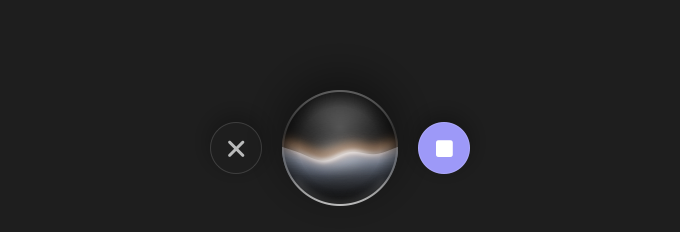
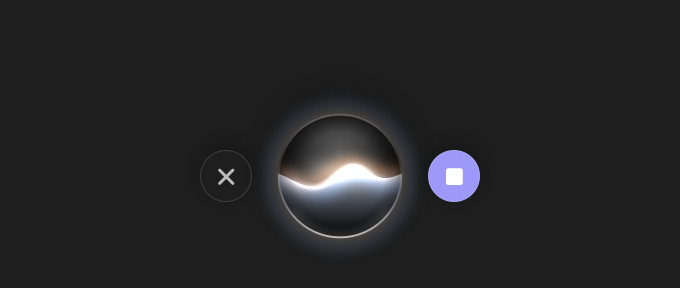
Fluid orb motion: per-frame smoothing, accumulated phase, layered ribbons

Changed region(s): [[0.3088, 0.3319, 0.7103, 0.9052]]

diff --git a/Sources/Murmur/Orb.swift b/Sources/Murmur/Orb.swift
@@ -1,25 +1,66 @@
 import SwiftUI
 
-/// A dark glass sphere with a band of light across its middle that ripples with your voice.
-/// Drawn entirely in SwiftUI (no Metal shader files), so it builds with Command Line Tools.
-/// The wavy-surface idea follows metasidd/Orb (MIT): https://github.com/metasidd/Orb
+/// The moving parts of the orb, advanced once per display frame. Keeping the state here, and
+/// integrating it over real elapsed time, is what makes the motion fluid: the microphone only
+/// reports about 25 levels a second, and wave speed changes must never make the phase jump.
+final class OrbMotion {
+    /// Smoothed 0...1 voice energy.
+    private(set) var energy: CGFloat = 0
+    /// One running phase per ribbon of light.
+    private(set) var phases: [Double] = [0, 2.1, 4.4]
+    private var last: Date?
+
+    private static let drift: [Double] = [1.9, -2.6, 3.4]
+
+    func step(toward target: CGFloat, at date: Date, thinking: Bool) {
+        let dt = min(0.05, max(0, last.map { date.timeIntervalSince($0) } ?? 0))
+        last = date
+
+        // While transcribing there is no voice: breathe slowly instead.
+        let goal = thinking ? 0.20 + 0.08 * CGFloat(sin(date.timeIntervalSinceReferenceDate * 2.2)) : target
+        // Rise with the syllable, fall away gently after it.
+        let rate: Double = goal > energy ? 16 : 4.5
+        energy += (goal - energy) * CGFloat(1 - exp(-rate * dt))
+
+        // Louder speech moves the light faster. Because the phase is accumulated, a change of
+        // speed bends the motion smoothly instead of teleporting the wave.
+        let pace = thinking ? 0.9 : 0.55 + 2.4 * Double(energy)
+        for i in phases.indices { phases[i] += OrbMotion.drift[i] * pace * dt }
+    }
+}
+
+/// A dark glass sphere with ribbons of light across its middle. In silence they lie together
+/// as one calm line; as you speak they swell from the centre and separate, the way layered
+/// voice waveforms do. Drawn in SwiftUI only, so it builds with Command Line Tools.
+/// The centre-weighted ribbon maths follows the classic open-source SiriWave approach
+/// (kopiro/siriwave, MIT); the wavy-surface idea follows metasidd/Orb (MIT).
 struct OrbView: View {
-    /// 0...1 microphone level.
-    var level: CGFloat
-    /// Seconds, drives the ripple. Pass a fixed value for a still image.
-    var time: Double
-    /// Slow shimmer instead of voice ripples, for the transcribing state.
-    var thinking = false
+    /// Smoothed 0...1 voice energy.
+    var energy: CGFloat
+    /// Three phases, one per ribbon.
+    var phases: [Double]
 
     var body: some View {
         Canvas { context, size in
             let side = min(size.width, size.height)
-            let rect = CGRect(x: (size.width - side) / 2, y: (size.height - side) / 2, width: side, height: side)
+            let centre = CGPoint(x: size.width / 2, y: size.height / 2)
+            // The sphere leaves room to swell and to glow inside its frame.
+            let r = side * 0.30 * (1 + 0.14 * energy)
+            let rect = CGRect(x: centre.x - r, y: centre.y - r, width: r * 2, height: r * 2)
             let sphere = Path(ellipseIn: rect)
-            let centre = CGPoint(x: rect.midX, y: rect.midY)
-            let r = side / 2
 
-            // 1. The glass body: darker toward the rim, a little lift where light enters at the top.
+            // Light spilling out of the glass when the voice is strong.
+            if energy > 0.02 {
+                let reach = r * (1.25 + 0.35 * energy)
+                context.fill(Path(ellipseIn: CGRect(x: centre.x - reach, y: centre.y - reach, width: reach * 2, height: reach * 2)),
+                             with: .radialGradient(
+                                Gradient(stops: [.init(color: Color(red: 1.0, green: 0.78, blue: 0.55).opacity(0.50 * energy), location: 0.62),
+                                                 .init(color: Color(red: 0.6, green: 0.75, blue: 1.0).opacity(0.18 * energy), location: 0.82),
+                                                 .init(color: .clear, location: 1)]),
+                                center: centre, startRadius: 0, endRadius: reach))
+            }
+
+            // 1. The glass body.
             context.fill(sphere, with: .radialGradient(
                 Gradient(stops: [.init(color: Color(white: 0.30), location: 0),
                                  .init(color: Color(white: 0.13), location: 0.55),
@@ -29,27 +70,35 @@ struct OrbView: View {
             context.drawLayer { inner in
                 inner.clip(to: sphere)
 
-                // The surface line. It sags slightly at the centre like liquid seen through a lens.
-                let energy = thinking ? 0.25 : level
-                let amplitude = r * (0.03 + 0.42 * energy)
-                // Louder speech lifts the liquid as well as rippling it.
-                let baseY = centre.y - r * 0.02 - r * 0.10 * energy
-                func surfaceY(_ x: CGFloat) -> CGFloat {
-                    let u = (x - rect.minX) / side                      // 0...1 across the sphere
-                    let sag = sin(u * .pi) * r * 0.20
-                    let speed = thinking ? 1.2 : 3.0 + 5.0 * Double(energy)
-                    let wave = sin(Double(u) * 7.0 + time * speed) * 0.6 + sin(Double(u) * 13.0 - time * speed * 1.7) * 0.4
-                    return baseY + sag + CGFloat(wave) * amplitude * sin(u * .pi)
+                let baseY = centre.y - r * 0.04
+                let amplitude = r * (0.022 + 0.50 * pow(energy, 0.85))
+
+                /// One ribbon's height at u (-1 at the left rim, +1 at the right).
+                /// `mix` weights three sine waves of different wavelength.
+                func ribbonY(_ u: CGFloat, _ mix: (Double, Double, Double)) -> CGFloat {
+                    let inside = max(0, 1 - u * u)
+                    let envelope = inside * inside                 // pinned at the rim, free at the centre
+                    let sag = r * 0.17 * inside                    // liquid seen through a lens
+                    let x = Double(u)
+                    let wave = mix.0 * sin(2.3 * x + phases[0]) + mix.1 * sin(3.9 * x + phases[1]) + mix.2 * sin(5.7 * x + phases[2])
+                    return baseY + sag - amplitude * envelope * CGFloat(wave)
                 }
-                var surface = Path()
-                surface.move(to: CGPoint(x: rect.minX, y: surfaceY(rect.minX)))
-                for step in 1...48 {
-                    let x = rect.minX + side * CGFloat(step) / 48
-                    surface.addLine(to: CGPoint(x: x, y: surfaceY(x)))
+                func ribbon(_ mix: (Double, Double, Double)) -> Path {
+                    var path = Path()
+                    let steps = 56
+                    for i in 0...steps {
+                        let u = CGFloat(i) / CGFloat(steps) * 2 - 1
+                        let point = CGPoint(x: centre.x + u * r, y: ribbonY(u, mix))
+                        if i == 0 { path.move(to: point) } else { path.addLine(to: point) }
+                    }
+                    return path
                 }
+                let core = ribbon((0.55, 0.30, 0.15))
+                let warm = ribbon((0.75, 0.25, 0.00))
+                let cool = ribbon((0.10, 0.50, 0.40))
 
                 // 2. Below the line: cool, misty liquid.
-                var liquid = surface
+                var liquid = core
                 liquid.addLine(to: CGPoint(x: rect.maxX, y: rect.maxY))
                 liquid.addLine(to: CGPoint(x: rect.minX, y: rect.maxY))
                 liquid.closeSubpath()
@@ -59,36 +108,37 @@ struct OrbView: View {
                                       Color(white: 0.10).opacity(0.15)]),
                     startPoint: CGPoint(x: centre.x, y: baseY), endPoint: CGPoint(x: centre.x, y: rect.maxY)))
 
-                // A bloom at the centre of the line, where the light is strongest.
-                inner.drawLayer { bloom in
-                    bloom.addFilter(.blur(radius: r * 0.16))
-                    let grow = 1 + 0.9 * energy
-                    let spot = CGRect(x: centre.x - r * 0.42 * grow, y: surfaceY(centre.x) - r * 0.10 * grow, width: r * 0.84 * grow, height: r * 0.20 * grow)
-                    bloom.fill(Path(ellipseIn: spot), with: .color(.white.opacity(0.45 + 0.55 * energy)))
-                }
+                // 3. The ribbons of light, added together like light rather than paint.
+                var light = inner
+                light.blendMode = .plusLighter
+                let glow = 0.50 + 0.50 * energy
 
-                // 3. The band of light, split into warm and cool edges like light through thick glass.
-                let glow = 0.45 + 0.55 * energy
-                inner.drawLayer { warm in
-                    warm.addFilter(.blur(radius: r * 0.10))
-                    warm.translateBy(x: 0, y: -r * 0.05)
-                    warm.stroke(surface, with: .color(Color(red: 1.0, green: 0.62, blue: 0.30).opacity(1.0 * glow)), lineWidth: r * 0.14)
+                light.drawLayer { layer in
+                    layer.addFilter(.blur(radius: r * 0.15))
+                    let grow = 1 + 0.8 * energy
+                    let spot = CGRect(x: centre.x - r * 0.40 * grow, y: ribbonY(0, (0.55, 0.30, 0.15)) - r * 0.09 * grow,
+                                      width: r * 0.80 * grow, height: r * 0.18 * grow)
+                    layer.fill(Path(ellipseIn: spot), with: .color(.white.opacity(0.40 + 0.45 * energy)))
                 }
-                inner.drawLayer { cool in
-                    cool.addFilter(.blur(radius: r * 0.12))
-                    cool.translateBy(x: 0, y: r * 0.05)
-                    cool.stroke(surface, with: .color(Color(red: 0.55, green: 0.75, blue: 1.0).opacity(0.7 * glow)), lineWidth: r * 0.12)
+                light.drawLayer { layer in
+                    layer.addFilter(.blur(radius: r * 0.10))
+                    layer.translateBy(x: 0, y: -r * 0.045)
+                    layer.stroke(warm, with: .color(Color(red: 1.0, green: 0.58, blue: 0.26).opacity(0.95 * glow)), lineWidth: r * 0.13)
                 }
-                inner.drawLayer { core in
-                    core.addFilter(.blur(radius: r * 0.035))
-                    // Brightest in the middle, fading to nothing at the rim.
-                    core.stroke(surface, with: .linearGradient(
+                light.drawLayer { layer in
+                    layer.addFilter(.blur(radius: r * 0.11))
+                    layer.translateBy(x: 0, y: r * 0.045)
+                    layer.stroke(cool, with: .color(Color(red: 0.45, green: 0.70, blue: 1.0).opacity(0.80 * glow)), lineWidth: r * 0.12)
+                }
+                light.drawLayer { layer in
+                    layer.addFilter(.blur(radius: r * 0.03))
+                    layer.stroke(core, with: .linearGradient(
                         Gradient(stops: [.init(color: .white.opacity(0), location: 0.04),
-                                         .init(color: .white.opacity(0.95 * glow), location: 0.38),
-                                         .init(color: .white.opacity(0.95 * glow), location: 0.62),
+                                         .init(color: .white.opacity(0.95 * glow), location: 0.36),
+                                         .init(color: .white.opacity(0.95 * glow), location: 0.64),
                                          .init(color: .white.opacity(0), location: 0.96)]),
                         startPoint: CGPoint(x: rect.minX, y: baseY), endPoint: CGPoint(x: rect.maxX, y: baseY)),
-                        lineWidth: r * 0.06)
+                        lineWidth: r * 0.055)
                 }
 
                 // 4. A soft reflection in the upper half.
@@ -113,7 +163,7 @@ struct OrbView: View {
                 }, with: .color(.white.opacity(0.35)), lineWidth: r * 0.06)
             }
 
-            // 6. The rim: a hairline of light, brighter along the bottom where the liquid catches it.
+            // 6. The rim.
             context.stroke(Path(ellipseIn: rect.insetBy(dx: 0.5, dy: 0.5)), with: .linearGradient(
                 Gradient(colors: [.white.opacity(0.30), .white.opacity(0.08), .white.opacity(0.70)]),
                 startPoint: CGPoint(x: centre.x, y: rect.minY), endPoint: CGPoint(x: centre.x, y: rect.maxY)), lineWidth: 1)

diff --git a/Sources/Murmur/Pill.swift b/Sources/Murmur/Pill.swift
@@ -48,7 +48,7 @@ final class PillController {
     }
 
     private func makePanel() -> NSPanel {
-        let panel = NSPanel(contentRect: NSRect(x: 0, y: 0, width: 340, height: 84),
+        let panel = NSPanel(contentRect: NSRect(x: 0, y: 0, width: 340, height: 112),
                             styleMask: [.borderless, .nonactivatingPanel], backing: .buffered, defer: false)
         panel.isOpaque = false
         panel.backgroundColor = .clear
@@ -68,13 +68,14 @@ final class PillController {
         let mouse = NSEvent.mouseLocation
         let screen = NSScreen.screens.first { $0.frame.contains(mouse) } ?? NSScreen.main
         guard let frame = screen?.visibleFrame else { return }
-        panel.setFrameOrigin(NSPoint(x: frame.midX - panel.frame.width / 2, y: frame.minY + 36))
+        panel.setFrameOrigin(NSPoint(x: frame.midX - panel.frame.width / 2, y: frame.minY + 22))
     }
 }
 
 struct PillView: View {
     @ObservedObject var model: PillModel
     @Environment(\.accessibilityReduceMotion) private var reduceMotion
+    @State private var motion = OrbMotion()
 
     var body: some View {
         ZStack {
@@ -90,7 +91,7 @@ struct PillView: View {
         case .hidden:
             EmptyView()
         case .listening(let handsFree):
-            HStack(spacing: 10) {
+            HStack(spacing: -4) {
                 // Holding the key needs no buttons: letting go is "done", Esc is "cancel".
                 if handsFree {
                     PillButton(symbol: "xmark", help: "Cancel (Esc)") { Dictation.shared.cancel() }
@@ -129,17 +130,13 @@ struct PillView: View {
     }
 
     private func orb(thinking: Bool) -> some View {
-        // The timeline exists only while the orb is on screen; hidden, nothing ticks.
-        TimelineView(.animation(minimumInterval: 1.0 / 30, paused: reduceMotion)) { timeline in
-            OrbView(level: thinking ? 0 : model.voice,
-                    time: reduceMotion ? 0.8 : timeline.date.timeIntervalSinceReferenceDate, thinking: thinking)
+        // Redrawn every display frame while visible. Hidden, the timeline does not exist.
+        TimelineView(.animation(paused: reduceMotion)) { timeline in
+            let _ = motion.step(toward: model.voice, at: timeline.date, thinking: thinking)
+            OrbView(energy: reduceMotion ? (thinking ? 0.2 : model.voice) : motion.energy, phases: motion.phases)
         }
-        .frame(width: 58, height: 58)
-        // The whole sphere swells with the voice, and its light spills out around it.
-        .scaleEffect(1 + (thinking ? 0 : 0.14 * model.voice))
-        .shadow(color: Color(red: 1.0, green: 0.72, blue: 0.45).opacity(thinking ? 0 : 0.55 * model.voice), radius: 10 + 10 * model.voice)
-        .shadow(color: .black.opacity(0.45), radius: 12, y: 6)
-        .animation(.spring(response: 0.18, dampingFraction: 0.7), value: model.voice)
+        .frame(width: 96, height: 96)
+        .shadow(color: .black.opacity(0.45), radius: 10, y: 5)
     }
 }
 

diff --git a/Sources/Murmur/ScreenRenderer.swift b/Sources/Murmur/ScreenRenderer.swift
@@ -31,25 +31,33 @@ enum ScreenRenderer {
                 let model = PillModel()
                 model.phase = phase
                 model.started = Date().addingTimeInterval(-7)
+                model.voice = 0.6
                 model.levels = (0..<PillModel.barCount).map { i in
                     Float(0.25 + 0.6 * abs(sin(Double(i) * 0.9)) * abs(cos(Double(i) * 0.37)))
                 }
-                snapshot(PillView(model: model).background(Theme.window), size: NSSize(width: 340, height: 84),
+                snapshot(PillView(model: model).background(Theme.window), size: NSSize(width: 340, height: 112),
                          appearance: appearance, to: directory.appendingPathComponent("pill-\(name)-\(suffix).png"))
             }
         }
 
-        // The orb at a few voice levels, on the kind of backdrop it will float over.
-        let orbs = HStack(spacing: 36) {
-            OrbView(level: 0.05, time: 0.4).frame(width: 150, height: 150)
-            OrbView(level: 0.5, time: 1.3).frame(width: 150, height: 150)
-            OrbView(level: 1.0, time: 2.1).frame(width: 150, height: 150)
-            OrbView(level: 0, time: 0.8, thinking: true).frame(width: 150, height: 150)
-            OrbView(level: 0.5, time: 1.3).frame(width: 56, height: 56)
+        // One spoken syllable, a frame every 1/15 s, to judge how the orb moves rather than how it poses.
+        let motion = OrbMotion()
+        var frames: [(CGFloat, [Double])] = []
+        let start = Date(timeIntervalSinceReferenceDate: 1_000)
+        for tick in 0..<96 {
+            let t = Double(tick) / 60
+            let target: CGFloat = (t > 0.15 && t < 0.75) ? 0.9 : (t > 1.0 && t < 1.25 ? 0.5 : 0)
+            motion.step(toward: target, at: start.addingTimeInterval(t), thinking: false)
+            if tick % 8 == 4 { frames.append((motion.energy, motion.phases)) }
         }
-        .padding(40)
+        let strip = HStack(spacing: 0) {
+            ForEach(Array(frames.enumerated()), id: \.offset) { _, frame in
+                OrbView(energy: frame.0, phases: frame.1).frame(width: 150, height: 150)
+            }
+        }
+        .padding(.vertical, 20)
         .background(Color(white: 0.16))
-        snapshot(orbs, size: NSSize(width: 900, height: 230), appearance: .darkAqua,
+        snapshot(strip, size: NSSize(width: CGFloat(frames.count) * 150, height: 190), appearance: .darkAqua,
                  to: directory.appendingPathComponent("orb-preview.png"))
 
         renderIcon(to: directory.appendingPathComponent("icon-1024.png"))

diff --git a/Sources/Murmur/Dictation.swift b/Sources/Murmur/Dictation.swift
@@ -18,9 +18,10 @@ final class PillModel: ObservableObject {
 
     static let barCount = 22
 
-    /// 0...1 loudness of the voice above the room's background, with a fast rise and a slower
-    /// fall so the orb jumps with each syllable and settles between words.
-    @Published var voice: CGFloat = 0
+    /// 0...1 loudness of the voice above the room's background. Deliberately not @Published:
+    /// the orb reads it every display frame and does its own smoothing, so publishing it would
+    /// only add redraws.
+    var voice: CGFloat = 0
     private var floor: Float = 1
 
     func push(_ level: Float) {
@@ -32,8 +33,7 @@ final class PillModel: ObservableObject {
         // The quietest recent level is the room. It follows drops at once and creeps up slowly.
         floor = min(floor + 0.003, level)
         let above = CGFloat(max(0, level - floor - 0.04)) / 0.30
-        let target = min(1, above)
-        voice = target > voice ? voice + (target - voice) * 0.7 : voice * 0.80
+        voice = min(1, above)
     }
 
     func resetLevels() {

diff --git a/Sources/Murmur/Recorder.swift b/Sources/Murmur/Recorder.swift
@@ -47,7 +47,7 @@ final class Recorder {
         lock.lock(); samples.removeAll(keepingCapacity: true); samples.reserveCapacity(16_000 * 30); peak = 0; detector = PauseDetector(); lock.unlock()
 
         let ratio = 16_000 / format.sampleRate
-        input.installTap(onBus: 0, bufferSize: 2_048, format: format) { [weak self] buffer, _ in
+        input.installTap(onBus: 0, bufferSize: 1_024, format: format) { [weak self] buffer, _ in
             self?.consume(buffer, ratio: ratio)
         }
         engine.prepare()
